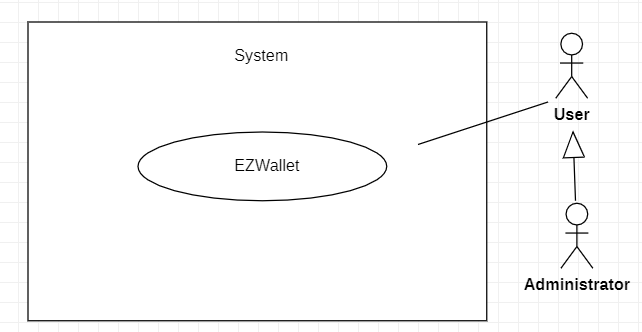
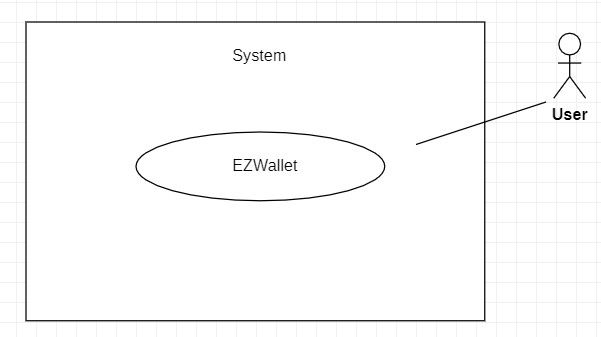
Update Diagram

diff --git a/RequirementsDocumentV1.md b/RequirementsDocumentV1.md
@@ -1,6 +1,6 @@
 # Requirements Document - current EZWallet
 
-Date: 14/04/2023
+Date: 21/04/2023
 
 Version: V1 - description of EZWallet in CURRENT form (as received by teachers)
 
@@ -12,6 +12,7 @@ Version: V1 - description of EZWallet in CURRENT form (as received by teachers)
 | 1.2 | Use Cases and Scenarios |
 | 1.3 | Diagrams |
 | 1.4 | Corrections |
+| 1.5 | Corrections |
 
 # Contents
 
@@ -127,7 +128,7 @@ EZWallet (read EaSy Wallet) is a software application designed to help individua
 |  Precondition     | <u>User</u> is registered and not logged in |
 |  Post condition     | <u>User</u> is Logged In and can access his account |
 | Step#        | Description  |
-|  1     | <u>User</u> enters username and password. |  
+|  1     | <u>User</u> enters email and password. |  
 |  2     | <u>User</u> confirms the login. |
 
 ##### Scenario 1.2
@@ -137,8 +138,8 @@ EZWallet (read EaSy Wallet) is a software application designed to help individua
 |  Precondition     | <u>User</u> is not registered |
 |  Post condition     | <u>User</u> is registered and logged in |
 | Step#        | Description  |
-|  1     | <u>User</u> clicks "not signed up" link. |  
-|  2     | <u>User</u> enters username, e-mail, password and confirm password. |  
+|  1     | <u>User</u> clicks "not signed up? Create an account" link. |  
+|  2     | <u>User</u> enters username, e-mail and password  |  
 |  3     | <u>User</u> clicks "sign up" button. |  
 |  4     | System confirm the registration after checking if the user doesn't exists. |
 |  5     | <u>User</u> is logged. |  
@@ -146,13 +147,35 @@ EZWallet (read EaSy Wallet) is a software application designed to help individua
 
 ##### Scenario 1.3
 
-| Scenario 1.3 | Wrong Username/Password |
+| Scenario 1.3 |  User already exists |
 | ------------- |:-------------:| 
-|  Precondition     | <u>User</u> is not registered or not logged in |
-|  Post condition     | <u>User</u> is not registered or not logged in |
+|  Precondition     | <u>User</u> is not registered |
+|  Post condition     | <u>User</u> is not registered  |
 | Step#        | Description  |
-|  1     | <u>User</u> enters username and password. |  
-|  2     | Username or password are wrong. |
+|  1     | <u>User</u> enters username,email and password. |  
+|  2     | Email found in the database. |
+|  3     | System asks again the data. |
+
+##### Scenario 1.4
+
+| Scenario 1.4 | Wrong password  |
+| ------------- |:-------------:| 
+|  Precondition     | <u>User</u> is not logged in |
+|  Post condition     | <u>User</u> is  not logged in |
+| Step#        | Description  |
+|  1     | <u>User</u> enters email and password. |  
+|  2     | Password is wrong. |
+|  3     | System asks again the data. |
+
+##### Scenario 1.5
+
+| Scenario 1.5 | User doesn't exists  |
+| ------------- |:-------------:| 
+|  Precondition     | <u>User</u> is not logged in |
+|  Post condition     | <u>User</u> is  not logged in |
+| Step#        | Description  |
+|  1     | <u>User</u> enters email and password. |  
+|  2     | Email not found in the database |
 |  3     | System asks again the data. |
 
 ### Use case 2, UC2 Logout
@@ -187,7 +210,7 @@ EZWallet (read EaSy Wallet) is a software application designed to help individua
 
 ##### Scenario 3.1 
 
-| Scenario 3.1 | Find Categories |
+| Scenario 3.1 | Get Categories |
 | ------------- |:-------------:| 
 |  Precondition     | <u>User</u> is logged in and clicked "show categories" button. |
 |  Post condition     | All categories are displayed. |
@@ -197,7 +220,7 @@ EZWallet (read EaSy Wallet) is a software application designed to help individua
 
 ##### Scenario 3.2
 
-| Scenario 3.2 | Find Labels |
+| Scenario 3.2 | Get Labels |
 | ------------- |:-------------:| 
 |  Precondition     | <u>User</u> is logged in and clicked "show labels" button. |
 |  Post condition     |  All labels are displayed. |
@@ -207,7 +230,7 @@ EZWallet (read EaSy Wallet) is a software application designed to help individua
 
 ##### Scenario 3.3
 
-| Scenario 3.3 | Find Transaction |
+| Scenario 3.3 | Get Transaction |
 | ------------- |:-------------:| 
 |  Precondition     | <u>User</u> is logged in. |
 |  Post condition     |  All transaction are displayed. |
@@ -225,82 +248,72 @@ EZWallet (read EaSy Wallet) is a software application designed to help individua
 |  Exceptions     | Category or Transaction are already present. |
 
 ##### Scenario 4.1 
-| Scenario 4.1 | Add Category |
+| Scenario 4.1 | Create Category |
 | ------------- |:-------------:| 
-|  Precondition     | <u>User</u> is logged in and clicked "add category" button. |
+|  Precondition     | <u>User</u> is logged in |
 |  Post condition     | A Category is added successfully. |
 | Step#        | Description  |
 |  1     | <u>User</u> clicks the "show categories" button. |
 |  2     | System shows all categories to the <u>User</u>. |
 |  3     | <u>User</u> enters the type and the color of the category that he wants to add. |  
-|  4     | <u>User</u> clicks the "add category" button. |
+|  4     | <u>User</u> clicks the "Create category" button. |
 
 ##### Scenario 4.2
-| Scenario 4.2 | Add Transaction |
+| Scenario 4.2 | Create Transaction |
 | ------------- |:-------------:| 
-|  Precondition     | <u>User</u> is logged in and clicked "add transaction" button. |
+|  Precondition     | <u>User</u> is logged in. |
 |  Post condition     | A transaction is added successfully. |
 | Step#        | Description  |
-|  1     | <u>User</u> enters the transaction that he wants to Add. |  
-|  2     | <u>User</u> clicks the "add transaction" button. |
-|  3     | System confirms the creation. |
+|  1     | <u>User</u> enters name,amount,type of the transaction that he wants to Add. |  
+|  2     | <u>User</u> clicks the "create transaction" button. |
 
 ##### Scenario 4.3
 | Scenario 4.3 | Failure in Creation of Category |
 | ------------- |:-------------:| 
-|  Precondition     | <u>User</u> is logged in and clicked "add category" button. |
+|  Precondition     | <u>User</u> is logged in . |
 |  Post condition     | Nothing is added. |
 | Step#        | Description  |
-|  1     | <u>User</u> enters the category  that he wants to add. |  
-|  2     | <u>User</u> clicks the "add category" button. |
+|  1     | <u>User</u> enters the type and the color of the category that he wants to add. |   
+|  2     | <u>User</u> clicks the "create category" button. |
 |  3     | System fails on already existing category. |
 
 ##### Scenario 4.4
 | Scenario 4.4 | Failure in Creation of Transaction |
 | ------------- |:-------------:| 
-|  Precondition     | <u>User</u> is logged in and clicked "add transaction" button. |
+|  Precondition     | <u>User</u> is logged in . |
 |  Post condition     | Nothing is added. |
 | Step#        | Description  |
-|  1     | <u>User</u> enters the transaction that he wants to add. |  
-|  2     | <u>User</u> clicks the "add transaction" button. |
+|  1     | <u>User</u> enters name,amount,type of the transaction that he wants to Add. |  
+|  2     | <u>User</u> clicks the "create transaction" button. |
 |  3     | System fails on already existing transaction. |
 
 ### Use case 5, UC5 (Delete Information)
 
 | Actors Involved        | User |
 | ------------- |:-------------:| 
-|  Precondition     | <u>User</u> is logged in and want to delete an information. |
+|  Precondition     | <u>User</u> is logged in and wants to delete an information. |
 |  Post condition     | <u>User</u> deletes the information he wants. |
 |  Nominal Scenario     | <u>User</u>, initially logged in on the page, wants to delete something by clicking on the relative button. |
 |  Variants     | <u>User</u> wants to delete a transaction. |
-|  Exceptions     | Transaction not found. |
+|  Exceptions     |  |
 
 ##### Scenario 5.1
 | Scenario 5.1 | Delete a Transaction |
 | ------------- |:-------------:| 
-|  Precondition     | <u>User</u> is logged in and clicked "delete transaction" button. |
+|  Precondition     | <u>User</u> is logged in  |
 |  Post condition     | Transaction is deleted. |
 | Step#        | Description  |
-|  1     | <u>User</u> enters the transaction id that he wants to delete. |  
-|  2     | <u>User</u> clicks the "delete transaction" button. |
+|  1    | <u>User</u> clicks the trash icon next to the transaction. |
 |  3     | System confirms the deletion. |
 
-##### Scenario 5.2
-| Scenario 5.2 | Transaction Not Found |
-| ------------- |:-------------:| 
-|  Precondition     | <u>User</u> is logged in and clicked "delete transaction" button. |
-|  Post condition     | Transaction is not deleted. |
-| Step#        | Description  |
-|  1     | <u>User</u> enters the transaction id that he wants to delete. |  
-|  2     | <u>User</u> clicks the "delete transaction" button. |
-|  3     | System fails on missing transaction. |
 
-### Use case 6, UC6 (Get User Information)
-| Actors Involved        | User, Administrator |
+
+### Use case 6, UC6 (Get User by Username)
+| Actors Involved        | User |
 | ------------- |:-------------:| 
-|  Precondition     | <u>User</u> is logged |
-|  Post condition     | <u>User</u> views his informations |
-|  Nominal Scenario     | <u>User</u>, initially on the page, decides to view his account informations. |
+|  Precondition     | <u>User</u> is logged in |
+|  Post condition     | <u>User</u> views his information |
+|  Nominal Scenario     | <u>User</u>, initially on the page, decides to view his account information. |
 |  Variants     |  |
 |  Exceptions     |  |
 
@@ -308,18 +321,18 @@ EZWallet (read EaSy Wallet) is a software application designed to help individua
 
 | Scenario 6.1 | Get User Information |
 | ------------- |:-------------:| 
-|  Precondition     | <u>User</u> is logged |
-|  Post condition     | <u>User</u> views his informations |
+|  Precondition     | <u>User</u> is logged in |
+|  Post condition     | <u>User</u> views his information |
 | Step#        | Description  |
-|  1     | <u>User</u> clicks the button to show his account informations. |  
-|  2     | Informations are displayed. |
+|  1     | <u>User</u> clicks the  settings icon to show his account information. |  
+|  2     | Username,email and hashedPassword are displayed. |
 
-### Use case 7, UC7 (Get Users Information)
-| Actors Involved        | Administrator |
+### Use case 7, UC7 (Get Users )
+| Actors Involved        | User |
 | ------------- |:-------------:| 
-|  Precondition     | <u>Administrator</u> is logged |
-|  Post condition     | <u>Administrator</u> views informations of the <u>Users</u> |
-|  Nominal Scenario     | <u>Administrator</u>, initially on the page, decides to view informations of the <u>Users</u>. |
+|  Precondition     | <u>User</u> is logged |
+|  Post condition     | <u>User</u> views information of the <u>Users</u> |
+|  Nominal Scenario     | <u>User</u>, initially on the page, decides to view information of the <u>Users</u>. |
 |  Variants     |  |
 |  Exceptions     |  |
 
@@ -327,11 +340,11 @@ EZWallet (read EaSy Wallet) is a software application designed to help individua
 
 | Scenario 7.1 | Get Users |
 | ------------- |:-------------:| 
-|  Precondition     | <u>Administrator</u> is logged |
-|  Post condition     | <u>Administrator</u> views informations of the <u>Users</u> |
+|  Precondition     | <u>User</u> is logged in |
+|  Post condition     | <u>User</u> views information of the <u>Users</u> |
 | Step#        | Description  |
-|  1     | <u>Administrator</u> clicks the button to show informations of the <u>Users</u>. |  
-|  2     | Informations are displayed. |
+|  1     | <u>User</u> clicks the "GetUsers" button to show information of the <u>Users</u>. |  
+|  2     | Username,email and HashedPassword are displayed. |
 
 # Glossary
 
@@ -342,10 +355,3 @@ EZWallet (read EaSy Wallet) is a software application designed to help individua
 
 # Deployment Diagram 
 ![image info](./code/images/deployment_diagram.png)
-
-# Defect Table
-
-| Defect   |      File      |  Description |
-|----------|:-------------:|------:|
-| getUsers | users.js | Function should be called by User with Admin Privileges, but no check on these privileges is made. |
-| get_labels | controller.js |  |
